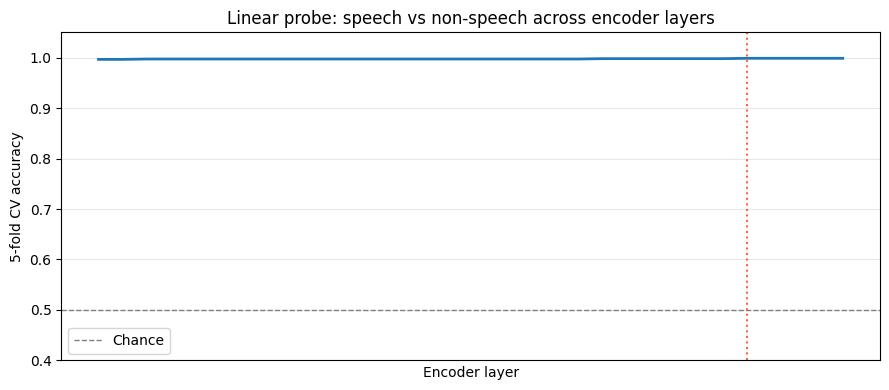
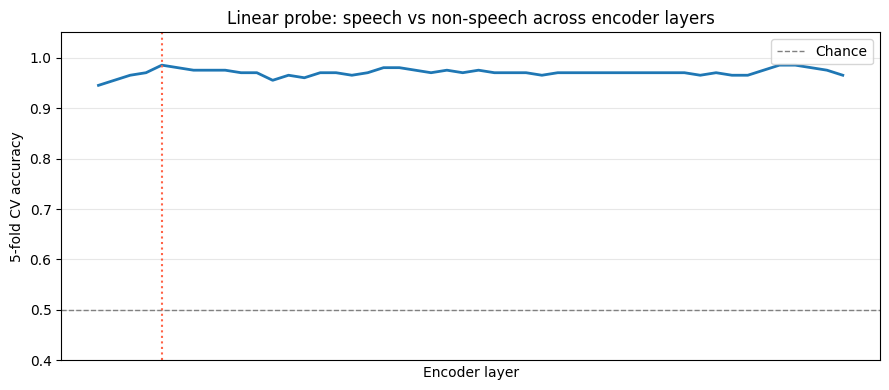
Render site

Changed region(s): [[0.1215, 0.0923, 0.9719, 0.2154], [0.0911, 0.8308, 0.1822, 0.8923]]

diff --git a/docs/machine-learning/ml/aed-hallucination-probe.html b/docs/machine-learning/ml/aed-hallucination-probe.html
@@ -353,7 +353,7 @@ window.Quarto = {
 
 <p>It is a well-known fact that encoder-decoder (AED) models for speech-to-text (STT) transcription are prone to hallucinations [1]. These hallucinations are primarily present in audio segments containing sparse speech - long pauses filled with silence or ambient noise - or segments containing no speech at all.</p>
 <p>Some authors have previously attempted to tackle these hallucinations with post-processing [2], training data selection [3], test-time data filtering [4], and fine-tuning with specific non-speech datasets [5]. In my own work, I have applied these and other techniques to suppress hallucinations in AED models, with good success.</p>
-<p>Some residual hallucinations remain despite this careful, multi-pronged treatment, and they still manifest on audio that, to a human ear, is relatively unambiguous. This is surprising, given that the model is able to transcribe challenging audio accurately across dozens of languages - it feels counterintuitive that a much simpler task, deciding on the mere presence of speech in a given segment, should be problematic. Motivated by this, and as an excuse to develop skills relevant to interpretability work, I decided to look more closely at the model internals to understand the origin of hallucinations.</p>
+<p>Some residual hallucinations remain despite this careful, multi-pronged treatment, and they still manifest on audio that, to a human ear, is relatively unambiguous. This is surprising, given that the model is able to transcribe challenging audio accurately across dozens of languages - it feels counterintuitive that a much simpler task, deciding on the mere presence of speech in a given segment, should be problematic. Motivated by this, and as an excuse to develop skills relevant to interpretability work, I decided to look more closely at the model internals to understand the origin of hallucinations. The model under investigation is Cohere’s <a href="https://huggingface.co/CohereLabs/cohere-transcribe-03-2026"><code>cohere-transcribe-03-2026</code></a> — a large multilingual encoder-decoder ASR system — and I will refer to it throughout. The full analysis is available as a <a href="REPO_URL_PLACEHOLDER">Jupyter notebook on GitHub</a>.</p>
 <p>The specific question I am looking to answer is: does the model internally represent the difference between speech and non-speech, and simply not surface it in its output? Or is the speech/non-speech distinction simply absent?</p>
 <p>There are two possible cases:</p>
 <ul>
@@ -366,7 +366,7 @@ window.Quarto = {
 <section id="linear-probing" class="level3">
 <h3 class="anchored" data-anchor-id="linear-probing">Linear probing</h3>
 <p>The main approach revolves around the <strong>linear representation hypothesis</strong>: if the speech/non-speech concept is linearly encoded in the residual stream, a logistic regression trained on mean-pooled layer activations should be able to separate the two classes. We train one probe per encoder layer and track accuracy with depth - this tells us where (if anywhere) the distinction emerges, and how strongly it is encoded.</p>
-<p>More concretely: at each encoder layer, every example produces a vector in <span class="math inline">\(\mathbb{R}^d\)</span> (here, <span class="math inline">\(d = 1792\)</span> for the deep encoder stage). A <strong>direction</strong> in this space is a unit vector along which the two classes tend to sit on opposite sides of a hyperplane. Logistic regression finds this hyperplane; its weight vector <span class="math inline">\(\mathbf{w}\)</span> is the direction. If such a direction exists, projecting any activation onto it produces a scalar that we can interpret as “how much of the speech concept is present at this layer”.</p>
+<p>More concretely: at each encoder layer, every example produces a vector in <span class="math inline">\(\mathbb{R}^d\)</span>. A <strong>direction</strong> in this space is a unit vector along which the two classes tend to sit on opposite sides of a hyperplane. Logistic regression finds this hyperplane; its weight vector <span class="math inline">\(\mathbf{w}\)</span> is the direction. If such a direction exists, projecting any activation onto it produces a scalar that we can interpret as “how much of the speech concept is present at this layer”.</p>
 <p>A flat curve near chance accuracy at all layers would be evidence for Case B - no latent representation. A curve that rises early would indicate the distinction is grounded in low-level acoustic feature rather than semantic abstraction.</p>
 </section>
 <section id="activation-collection" class="level3">
@@ -374,17 +374,16 @@ window.Quarto = {
 <p>We register a forward hook on each transformer layer in the encoder. The hook captures the residual stream output (shape <code>[batch, seq_len, d]</code>) and mean-pools over the time dimension, giving one vector per example per layer:</p>
 <div class="code-copy-outer-scaffold"><div class="sourceCode" id="cb1"><pre class="sourceCode python code-with-copy"><code class="sourceCode python"><span id="cb1-1"><a href="#cb1-1" aria-hidden="true" tabindex="-1"></a><span class="kw">def</span> make_hook(layer_idx):</span>
 <span id="cb1-2"><a href="#cb1-2" aria-hidden="true" tabindex="-1"></a>    <span class="kw">def</span> hook(module, <span class="bu">input</span>, output):</span>
-<span id="cb1-3"><a href="#cb1-3" aria-hidden="true" tabindex="-1"></a>        x <span class="op">=</span> output[<span class="dv">0</span>]   <span class="co"># (batch, seq_len, hidden_dim)</span></span>
-<span id="cb1-4"><a href="#cb1-4" aria-hidden="true" tabindex="-1"></a>        layer_buffer[layer_idx] <span class="op">=</span> x.<span class="bu">float</span>().mean(dim<span class="op">=</span><span class="dv">1</span>).detach().cpu()</span>
-<span id="cb1-5"><a href="#cb1-5" aria-hidden="true" tabindex="-1"></a>    <span class="cf">return</span> hook</span>
-<span id="cb1-6"><a href="#cb1-6" aria-hidden="true" tabindex="-1"></a></span>
-<span id="cb1-7"><a href="#cb1-7" aria-hidden="true" tabindex="-1"></a>handles <span class="op">=</span> [layer.register_forward_hook(make_hook(i))</span>
-<span id="cb1-8"><a href="#cb1-8" aria-hidden="true" tabindex="-1"></a>           <span class="cf">for</span> i, layer <span class="kw">in</span> <span class="bu">enumerate</span>(head.encoder.layers)]</span></code></pre></div><button title="Copy to Clipboard" class="code-copy-button"><i class="bi"></i></button></div>
-<p>Note that <code>TransformerBlock.forward</code> returns a tuple <code>(residual_stream, kv_state)</code> - hence <code>output[0]</code>. Mean-pooling over time is a reasonable first choice: the speech/non-speech distinction should be distributed across the whole segment, not concentrated in a single frame. We run the encoder, but not the decoder - we are interested in what the encoder has built up, independent of how the decoder interprets it.</p>
+<span id="cb1-3"><a href="#cb1-3" aria-hidden="true" tabindex="-1"></a>        layer_buffer[layer_idx] <span class="op">=</span> output.<span class="bu">float</span>().mean(dim<span class="op">=</span><span class="dv">1</span>).detach().cpu()</span>
+<span id="cb1-4"><a href="#cb1-4" aria-hidden="true" tabindex="-1"></a>    <span class="cf">return</span> hook</span>
+<span id="cb1-5"><a href="#cb1-5" aria-hidden="true" tabindex="-1"></a></span>
+<span id="cb1-6"><a href="#cb1-6" aria-hidden="true" tabindex="-1"></a>handles <span class="op">=</span> [layer.register_forward_hook(make_hook(i))</span>
+<span id="cb1-7"><a href="#cb1-7" aria-hidden="true" tabindex="-1"></a>           <span class="cf">for</span> i, layer <span class="kw">in</span> <span class="bu">enumerate</span>(model.model.encoder.layers)]</span></code></pre></div><button title="Copy to Clipboard" class="code-copy-button"><i class="bi"></i></button></div>
+<p>Mean-pooling over time is a reasonable first choice: the speech/non-speech distinction should be distributed across the whole segment, not concentrated in a single frame. We run the encoder, but not the decoder - we are interested in what the encoder has built up, independent of how the decoder interprets it.</p>
 </section>
 <section id="data" class="level3">
 <h3 class="anchored" data-anchor-id="data">Data</h3>
-<p>We use 1,500 examples per class:</p>
+<p>We use 3,000 examples per class:</p>
 <ul>
 <li><strong>Non-speech</strong>: pure silence segments extracted by a force aligner, drawn from the non-speech training corpus. These are relatively unambiguous, by design - we want to probe the clean case first.</li>
 <li><strong>Speech</strong>: held-out validation examples from the main English training corpus, unseen during training.</li>
@@ -400,22 +399,22 @@ window.Quarto = {
 <h2 class="anchored" data-anchor-id="results">Results</h2>
 <section id="the-probe" class="level3">
 <h3 class="anchored" data-anchor-id="the-probe">The probe</h3>
-<p>The accuracy curve is flat, essentially at 1.000, from the first layer onwards.</p>
+<p>The accuracy curve is high from the very first layer, peaking at 0.985 at layer 4 and remaining well above chance throughout.</p>
 <div class="quarto-figure quarto-figure-center">
 <figure class="figure">
 <p><img src="../../images/ml/probe-accuracy-vs-depth.png" class="img-fluid figure-img"></p>
 <figcaption>Linear probe accuracy across encoder layers. Chance is 0.5.</figcaption>
 </figure>
 </div>
-<p>Across all layers, probe accuracy is 0.999–1.000. There is no warm-up period, no layer at which the distinction first “emerges” - it is there from layer 0 and stays there. The best layer achieves 1.000 ± 0.001; the worst layer achieves 0.999 ± 0.001. The model encodes the speech/non-speech distinction essentially perfectly, from the very first transformer layer.</p>
-<p>The 1D projection confirms it visually: the two distributions are completely separated, with essentially no overlap. The ambiguous zone (shaded gold) sits in the gap - examples that genuinely straddle the boundary: crowd noise, intelligible background conversations, shouts and yells, lyrics within background music. On audio inspection, these are exactly the cases one would expect to be ambiguous.</p>
+<p>Across all layers, probe accuracy ranges from roughly 0.94 at layer 0 to a peak of 0.985 at layer 4, where it stabilises for the remainder of the encoder stack. The distinction is present from the very first layer — there is a modest rise over the first few layers as early acoustic features are consolidated, but it never approaches chance. The model encodes the speech/non-speech distinction strongly across the full depth of the encoder.</p>
+<p>The 1D projection confirms it visually: the two distributions are well-separated, with only a small region of overlap near the ambiguous zone boundary. The ambiguous zone (shaded gold) sits in the gap - examples that genuinely straddle the boundary: crowd noise, intelligible background conversations, shouts and yells, lyrics within background music. On audio inspection, these are exactly the cases one would expect to be ambiguous.</p>
 <div class="quarto-figure quarto-figure-center">
 <figure class="figure">
 <p><img src="../../images/ml/probe-direction-viz.png" class="img-fluid figure-img"></p>
-<figcaption>Left: 1D projection of all examples onto the probe direction - complete separation. Right: PCA scatter at the best layer, with ambiguous-zone examples highlighted (gold diamonds).</figcaption>
+<figcaption>Left: 1D projection of all examples onto the probe direction - strong separation. Right: PCA scatter at the best layer, with ambiguous-zone examples highlighted (gold diamonds).</figcaption>
 </figure>
 </div>
-<p>The PCA scatter underlines this: PC1 alone accounts for 42% of the variance at this layer, and the two classes sit cleanly at opposite ends of it. It is also worth noting that the distribution along the probe direction is smooth - a continuous gradation from confidently non-speech to confidently speech-like rather than a hard split. This is circumstantial but suggestive evidence that the direction genuinely encodes speech-likeness, rather than some other quantity that merely correlates with the class label.</p>
+<p>The PCA scatter underlines this: PC1 accounts for 30.9% of the variance at this layer, and the two classes sit cleanly at opposite ends of it. It is also worth noting that the distribution along the probe direction is smooth - a continuous gradation from confidently non-speech to confidently speech-like rather than a hard split. This is circumstantial but suggestive evidence that the direction genuinely encodes speech-likeness, rather than some other quantity that merely correlates with the class label.</p>
 </section>
 </section>
 <section id="interpretation" class="level2">
